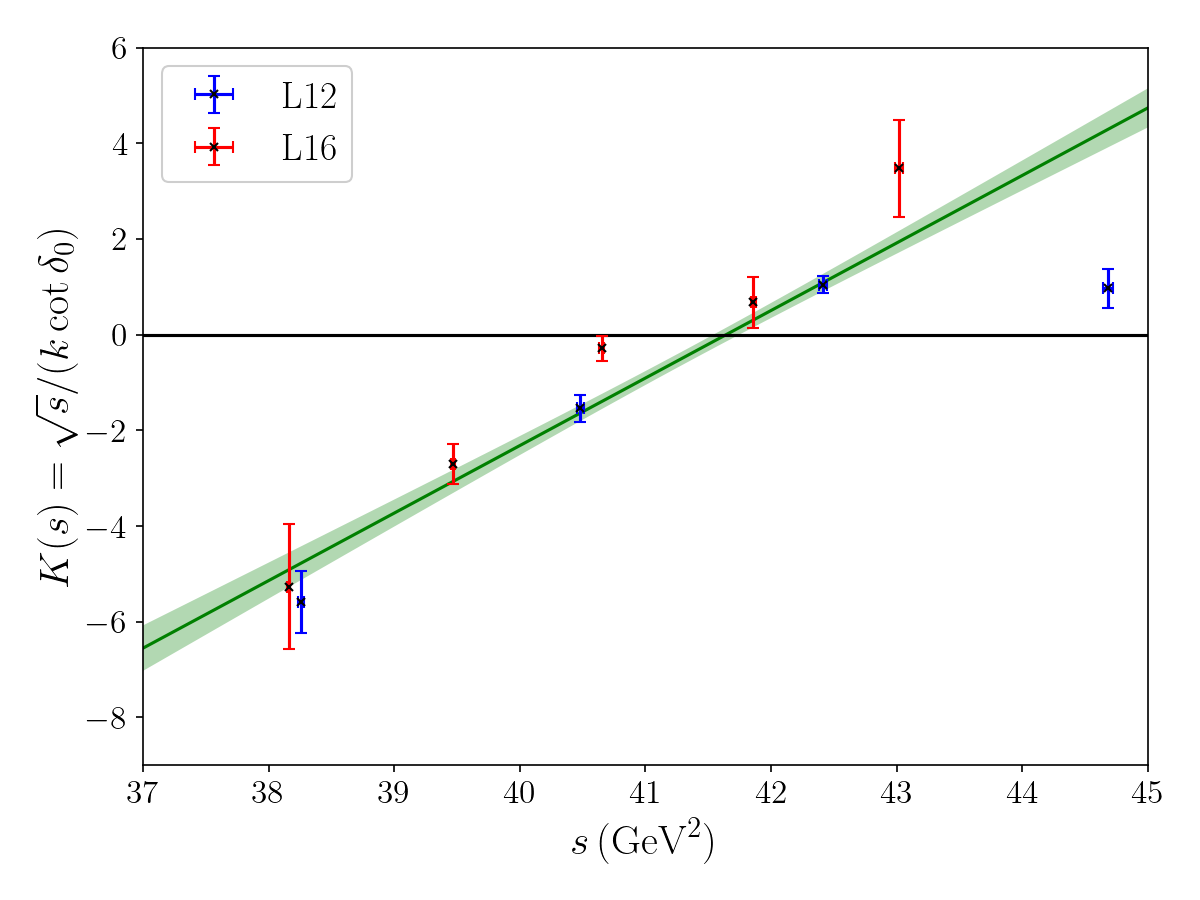
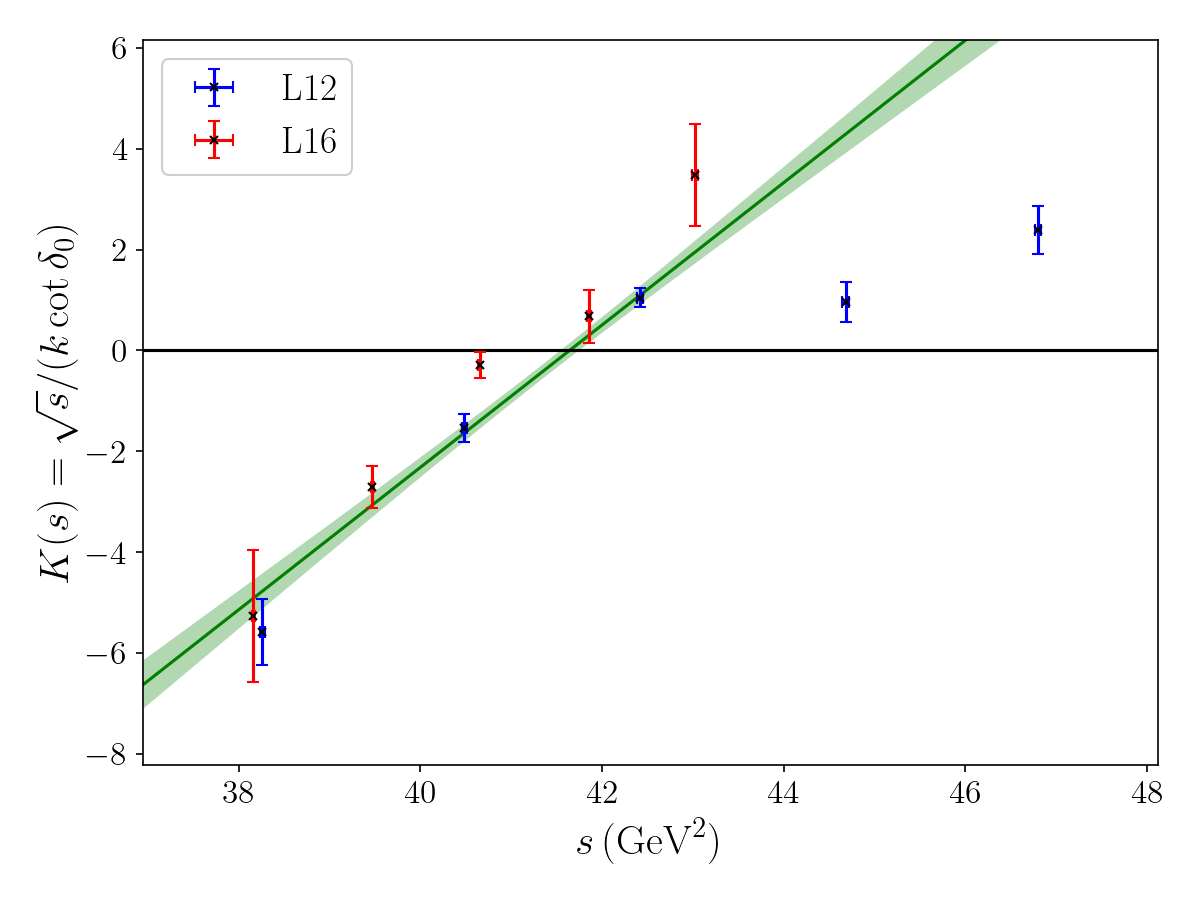
add support for moving frame

diff --git a/main.py b/main.py
@@ -40,7 +40,7 @@ def run_resample(config: Config) -> None:
 
 
 def main() -> None:
-    builder = BuildConfig("X3872")
+    builder = BuildConfig("Tcccc6600")
     ctrl = builder.input_control
 
     if ctrl.is_meson_analysis: